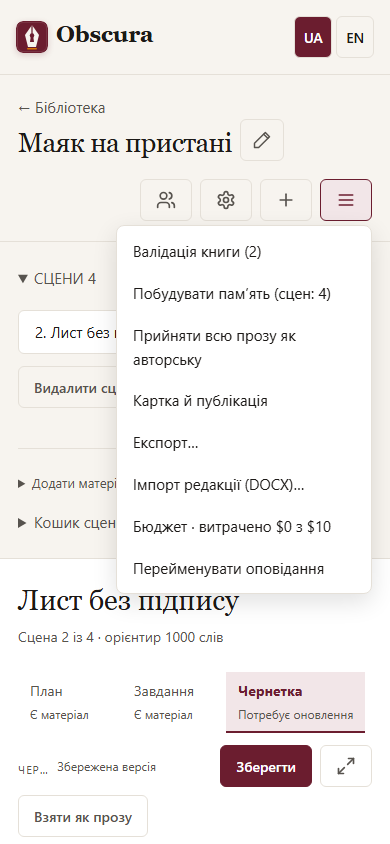
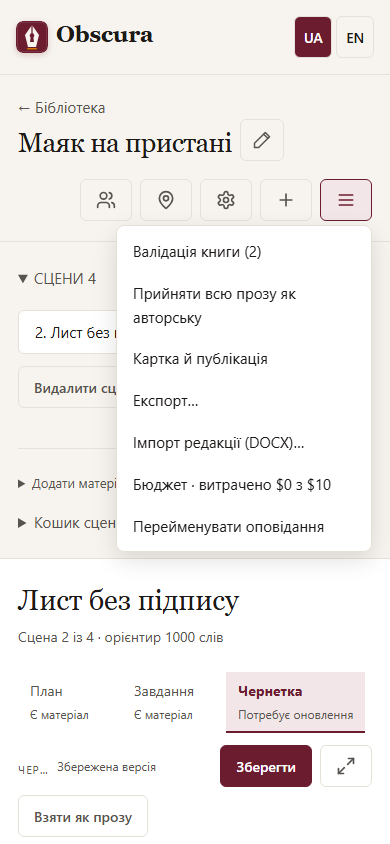
docs(locations): SPEC S12, Playwright, довідка й знімки сторінки «Локації»

diff --git a/scripts/capture_screenshots.py b/scripts/capture_screenshots.py
@@ -254,12 +254,12 @@ def capture(base,ids,languages):
                         page.goto(f'{base}/stories/{story}?scene={scene}&material=brief');page.wait_for_load_state('networkidle')
                         page.locator('#brief-form').wait_for(state='visible');shot(page,folder/'brief-form-desktop.png',shots)
                     if suffix=='desktop':
-                        # MEMORY-LOCATIONS-S07: the «Locations» section of the memory panel with a suggestion and a description.
-                        page.set_viewport_size({'width':1280,'height':2400})  # the whole section without the sticky tabs over it
-                        page.goto(f'{base}/stories/{story}?scene={scene}&material=memory');page.wait_for_load_state('networkidle')
-                        section=page.locator('#memory-view #story-locations')
+                        # MEMORY-LOCATIONS-S12: the «Locations» page with a suggestion and a description.
+                        page.set_viewport_size({'width':1280,'height':2400})  # the whole page in one shot
+                        page.goto(f'{base}/stories/{story}/locations?scene={scene}&material=memory');page.wait_for_load_state('networkidle')
+                        section=page.locator('#locations-page')
                         section.locator('.location-row').first.wait_for();section.locator('.location-description').first.locator('summary').click()
-                        section.scroll_into_view_if_needed();page.wait_for_timeout(300)
+                        page.wait_for_timeout(300)
                         section.screenshot(path=str(folder/'locations-desktop.png'));shots.append(folder/'locations-desktop.png')
                         page.set_viewport_size(viewport);page.goto(f'{base}/stories/{story}?scene={scene}&material=draft');page.wait_for_load_state('networkidle')
                     page.locator('#story-menu-toggle').click();page.locator('#story-menu').wait_for();shot(page,folder/f'story-menu-{suffix}.png',shots)

diff --git a/docs/verification/manual.md b/docs/verification/manual.md
@@ -336,9 +336,9 @@ SCENE-NARRATOR-S07. Автоматична частина — Playwright `tests/
 MEMORY-SUMMARY-S07. Автоматична частина — Playwright `tests/web/browser/timeline-summaries.spec.mjs` (три cases на desktop і mobile на нейтральному творі з 22 сцен і пам’яттю до сцени 21: панель пам’яті показує блок 1–10 «актуальний» з текстом і кнопками «Перебудувати»/«Редагувати» та блок 11–20 «немає підсумку» з кнопкою «Створити підсумок» без редагування; збережене виправлення заміняє текст; якщо іншу голову опубліковано раніше, збереження показує конфлікт і лишає набраний текст у полі): `node frontend/node_modules/@playwright/test/cli.js test tests/web/browser/timeline-summaries.spec.mjs --config frontend/playwright.config.mjs`. Платний запуск моделі ця перевірка не робить. Цей зв’язок не є доказом виконання; фактичний запуск фіксується окремо.
 
 <a id="locations-panel"></a>
-## Панель «Локації»
+## Сторінка «Локації»
 
-MEMORY-LOCATIONS-S07, MEMORY-LOCATIONS-S08, MEMORY-LOCATIONS-S11. Автоматична частина — Playwright `tests/web/browser/locations.spec.mjs` (п’ять cases на desktop і mobile на нейтральному творі з двох сцен: розділ показує картки зі сценами й підказку «Квартира Джоржа» схоже на «Квартира Джорджа»; злиття після підтвердження прибирає підказку й показує «Злито в…», «Розділити» скасовує; опис зберігається, а після зміни з іншої вкладки збереження показує конфлікт і лишає набраний текст; збережений опис не робить наступну зміну типу запису в таблиці пам’яті конфліктом, а рядок пам’яті показує локацію; з `/test-locations?model=true` сцена «Ніч» має місце моделі «двір»: кнопка «Прибрати з «3. Ніч»» єдина, після підтвердження «двір» лишається лише в «2. Вечір», і кнопок більше немає; з `/test-locations?glue=true` сцена «Кава» має «Локація: Бар, в якому пахне кавою, вулиця»: «Склеїти з…» на картці «Бар» пропонує лише «Бар, в якому пахне кавою», підтвердження каже «План не зміниться», після нього сцена «3. Кава» — у склеєній картці, «Бар» без сцен, а розділ «Склеєні назви» має правило без горизонтального прокручування; «Розклеїти» з нагадуванням про злиття повертає «3. Кава» в «Бар» і прибирає розділ): `node frontend/node_modules/@playwright/test/cli.js test tests/web/browser/locations.spec.mjs --config frontend/playwright.config.mjs` (з worktree — з `PYTHONPATH=<корінь>/src`). Платний запуск моделі ця перевірка не робить. Цей зв’язок не є доказом виконання; фактичний запуск фіксується окремо.
+MEMORY-LOCATIONS-S07, MEMORY-LOCATIONS-S08, MEMORY-LOCATIONS-S11, MEMORY-LOCATIONS-S12. Автоматична частина — Playwright `tests/web/browser/locations.spec.mjs` (дев’ять cases на desktop і mobile на нейтральному творі з двох сцен; сторінка `/stories/{id}/locations`: кнопка `#workspace-locations` і рядок «Локації твору →» останнім у «Пам’яті» ведуть на сторінку з тими самими `scene`/`material`, «← Повернутися до сцени» повертає туди ж, шапка й сторінка без горизонтального прокручування; твір без локацій пояснює, звідки картки, і дає посилання на «Персонажі»; набраний незбережений опис викликає `beforeunload`, після відмови текст лишається; робочий простір після зміни опису деінде й події `pageshow` з `persisted` перечитує себе, і зміна типу запису не конфлікт; сторінка показує картки зі сценами й підказку «Квартира Джоржа» схоже на «Квартира Джорджа»; злиття після підтвердження прибирає підказку й показує «Злито в…», «Розділити» скасовує; опис зберігається, а після зміни з іншої вкладки збереження показує конфлікт і лишає набраний текст; збережений опис і злиття на сторінці після «← Повернутися до сцени» не роблять наступну зміну типу запису конфліктом, а рядок пам’яті показує ціль злиття; з `/test-locations?model=true` сцена «Ніч» має місце моделі «двір»: кнопка «Прибрати з «3. Ніч»» єдина, після підтвердження «двір» лишається лише в «2. Вечір», і кнопок більше немає; з `/test-locations?glue=true` сцена «Кава» має «Локація: Бар, в якому пахне кавою, вулиця»: «Склеїти з…» на картці «Бар» пропонує лише «Бар, в якому пахне кавою», підтвердження каже «План не зміниться», після нього сцена «3. Кава» — у склеєній картці, «Бар» без сцен, а розділ «Склеєні назви» має правило без горизонтального прокручування; «Розклеїти» з нагадуванням про злиття повертає «3. Кава» в «Бар» і прибирає розділ): `node frontend/node_modules/@playwright/test/cli.js test tests/web/browser/locations.spec.mjs --config frontend/playwright.config.mjs` (з worktree — з `PYTHONPATH=<корінь>/src`). Платний запуск моделі ця перевірка не робить. Цей зв’язок не є доказом виконання; фактичний запуск фіксується окремо.
 
 <a id="desktop-launcher"></a>
 ## Запуск без консолі та значок у треї

diff --git a/docs/site/uk/memory.md b/docs/site/uk/memory.md
@@ -28,13 +28,13 @@
 
 ## Локації
 
-Рядок `Локація:` у плані сцени називає її місце: `Локація: Маяк / ліхтарна`. Кілька місць пишіть через кому, крапку з комою, `→` або слова «потім», «далі», «згодом» і «та»: `Локація: Пристань, потім маяк`, `Локація: Квартира та техвідсік`. Скісна риска вкладає місце в інше, тож `Маяк / ліхтарна` дає дві картки — «Маяк» і «Маяк / ліхтарна». «і» лишається частиною назви («Сад і город»). Щоб «та» не розділяло назву, візьміть її в лапки чи дужки: `Бар «Ніч та день»`. Назву з комою, як-от «Бар, в якому пахне кавою», можна склеїти в панелі «Локації» (див. нижче). Старіші версії Obscura не розділяли за «та». План, збережений у такій версії, розділиться під час наступного збереження, а стару склеєну картку можна злити з новою в панелі «Локації». Картки створюються самі, коли ви зберігаєте план; однакова назва (без урахування регістру й зайвих пробілів) — та сама картка. Для вже написаної книги місця сцен без рядка `Локація:` може запропонувати [пошук персонажів і місць у прозі](characters.md#пошук-персонажів-і-місць-у-прозі); шукайте їх до побудови пам’яті, бо пам’ять позначає записи місцями, які сцена має на той час.
+Рядок `Локація:` у плані сцени називає її місце: `Локація: Маяк / ліхтарна`. Кілька місць пишіть через кому, крапку з комою, `→` або слова «потім», «далі», «згодом» і «та»: `Локація: Пристань, потім маяк`, `Локація: Квартира та техвідсік`. Скісна риска вкладає місце в інше, тож `Маяк / ліхтарна` дає дві картки — «Маяк» і «Маяк / ліхтарна». «і» лишається частиною назви («Сад і город»). Щоб «та» не розділяло назву, візьміть її в лапки чи дужки: `Бар «Ніч та день»`. Назву з комою, як-от «Бар, в якому пахне кавою», можна склеїти на сторінці «Локації» (див. нижче). Старіші версії Obscura не розділяли за «та». План, збережений у такій версії, розділиться під час наступного збереження, а стару склеєну картку можна злити з новою на сторінці «Локації». Картки створюються самі, коли ви зберігаєте план; однакова назва (без урахування регістру й зайвих пробілів) — та сама картка. Для вже написаної книги місця сцен без рядка `Локація:` може запропонувати [пошук персонажів і місць у прозі](characters.md#пошук-персонажів-і-місць-у-прозі); шукайте їх до побудови пам’яті, бо пам’ять позначає записи місцями, які сцена має на той час.
 
 Модель пам’яті позначає записи місцями сцени. Коли пам’ять не вміщається, наступна сцена в тому самому місці, у місці, що його містить, чи у вкладеному отримує ці записи, зокрема стан персонажа, якого в сцені немає. Записи, зроблені до цієї зміни, місць не мають.
 
-![Розділ «Локації» з підказкою схожої назви й описом місця](../../images/site/uk/locations-desktop.png)
+![Сторінка «Локації» з підказкою схожої назви й описом місця](../../images/site/uk/locations-desktop.png)
 
-Картки видно в розділі **Локації** внизу вкладки **Пам’ять** будь-якої сцени:
+Картки видно на сторінці **Локації**: відкрийте її кнопкою з міткою місця в шапці твору або рядком **Локації твору →** унизу вкладки **Пам’ять** будь-якої сцени. **← Повернутися до сцени** веде назад до тієї самої сцени. Якщо ви набрали опис і не зберегли його, Obscura перепитає, перш ніж піти зі сторінки:
 
 - **Опис локації** — необов’язковий текст до 2000 знаків. Його бачать планувальник і письменник (також через MCP), модель пам’яті — ні. Зміна опису робить застарілими чернетки сцен у цьому місці та вкладених.
 - **Схожі назви** підказують можливі дублікати, як-от друкарську помилку «Пристань» / «Пристаннь». **Злити** робить пізнішу картку частиною першої, **Не схожі** ховає підказку назавжди.

diff --git a/docs/site/en/memory.md b/docs/site/en/memory.md
@@ -28,13 +28,13 @@ The **Type** column guides the selection: **Auto**, **Core** (always shown) or *
 
 ## Locations
 
-The `Location:` line of a scene plan names where the scene happens: `Location: Lighthouse / lamp room`. Separate several places with a comma, a semicolon, `→` or the words "then", "later" and "and": `Location: Pier, then lighthouse`, `Location: Flat and engine room`. A slash nests one place in another, so `Lighthouse / lamp room` gives two cards, "Lighthouse" and "Lighthouse / lamp room". To keep "and" inside a name, put the name in quotes or brackets: `Hotel "Bed and Breakfast"`. A name with a comma, such as "Bar, where it smells of coffee", can be glued in the **Locations** panel (see below). Older versions of Obscura did not split on "and". A plan saved in such a version is split the next time you save it, and you can merge the old combined card into a new one in the **Locations** panel. Cards appear on their own when you save the plan; the same name (ignoring case and extra spaces) is the same card. For a book that is already written, the [character and place search in the prose](characters.md#character-and-place-search-in-the-prose) can propose the places of scenes without a `Location:` line; run it before building memory, because memory marks records with the places the scene has at that time.
+The `Location:` line of a scene plan names where the scene happens: `Location: Lighthouse / lamp room`. Separate several places with a comma, a semicolon, `→` or the words "then", "later" and "and": `Location: Pier, then lighthouse`, `Location: Flat and engine room`. A slash nests one place in another, so `Lighthouse / lamp room` gives two cards, "Lighthouse" and "Lighthouse / lamp room". To keep "and" inside a name, put the name in quotes or brackets: `Hotel "Bed and Breakfast"`. A name with a comma, such as "Bar, where it smells of coffee", can be glued on the **Locations** page (see below). Older versions of Obscura did not split on "and". A plan saved in such a version is split the next time you save it, and you can merge the old combined card into a new one on the **Locations** page. Cards appear on their own when you save the plan; the same name (ignoring case and extra spaces) is the same card. For a book that is already written, the [character and place search in the prose](characters.md#character-and-place-search-in-the-prose) can propose the places of scenes without a `Location:` line; run it before building memory, because memory marks records with the places the scene has at that time.
 
 The memory model marks records with the scene's places. When memory does not fit, a later scene in the same place, in a place that contains it or in one inside it gets those records, including the state of a character who is not in the scene. Records made before this change have no places.
 
-![The «Locations» section with a similar-name suggestion and a place description](../../images/site/en/locations-desktop.png)
+![The «Locations» page with a similar-name suggestion and a place description](../../images/site/en/locations-desktop.png)
 
-The cards are in the **Locations** section at the bottom of the **Memory** tab of any scene:
+The cards are on the **Locations** page: open it with the map-pin button in the story header or with the **Story locations →** line at the bottom of the **Memory** tab of any scene. **← Return to scene** returns to the same scene. If you typed a description and did not save it, Obscura asks before you leave the page:
 
 - **Location description** is optional text of up to 2000 characters. The planner and the writer see it (also through MCP); the memory model does not. Changing it makes the drafts of scenes in that place and the places inside it outdated.
 - **Similar names** suggests possible duplicates, such as the typo "Pier" / "Peir". **Merge** makes the later card part of the first one; **Not alike** hides the suggestion for good.
